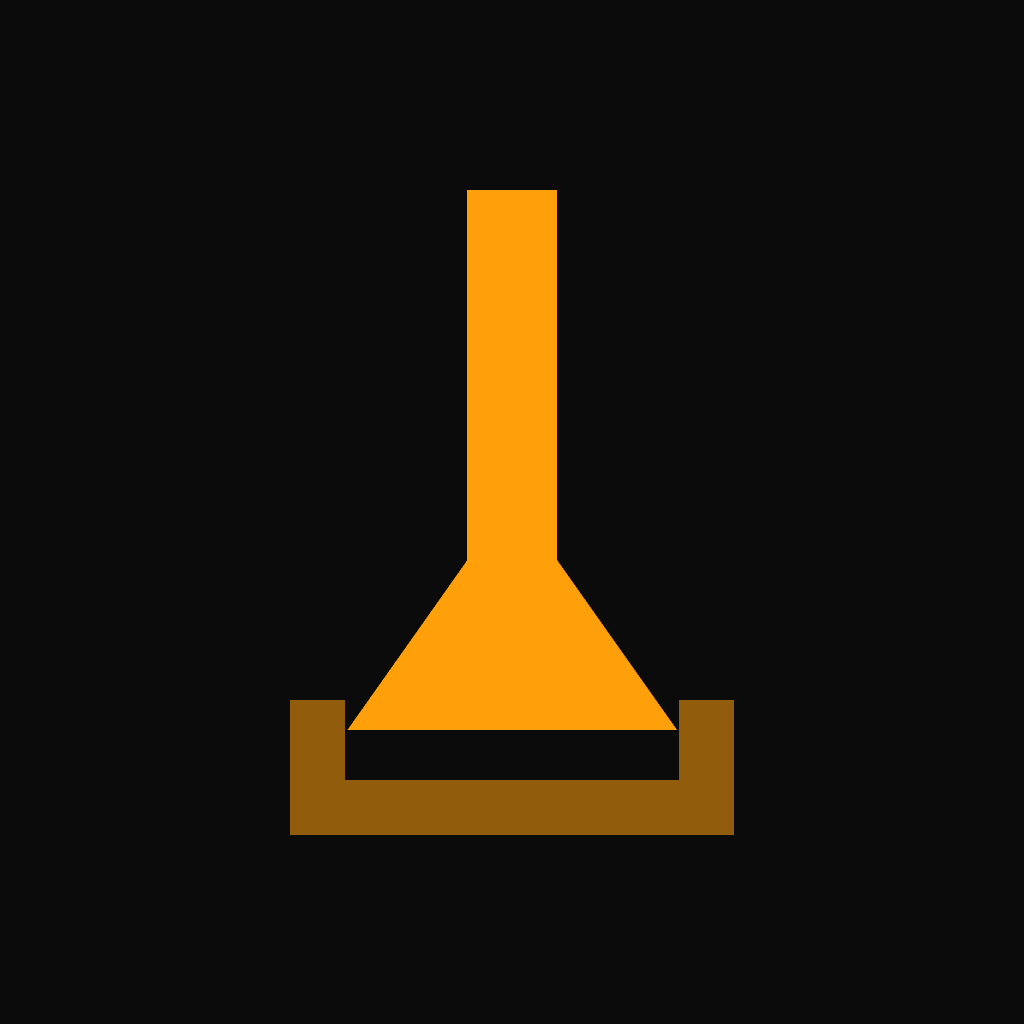
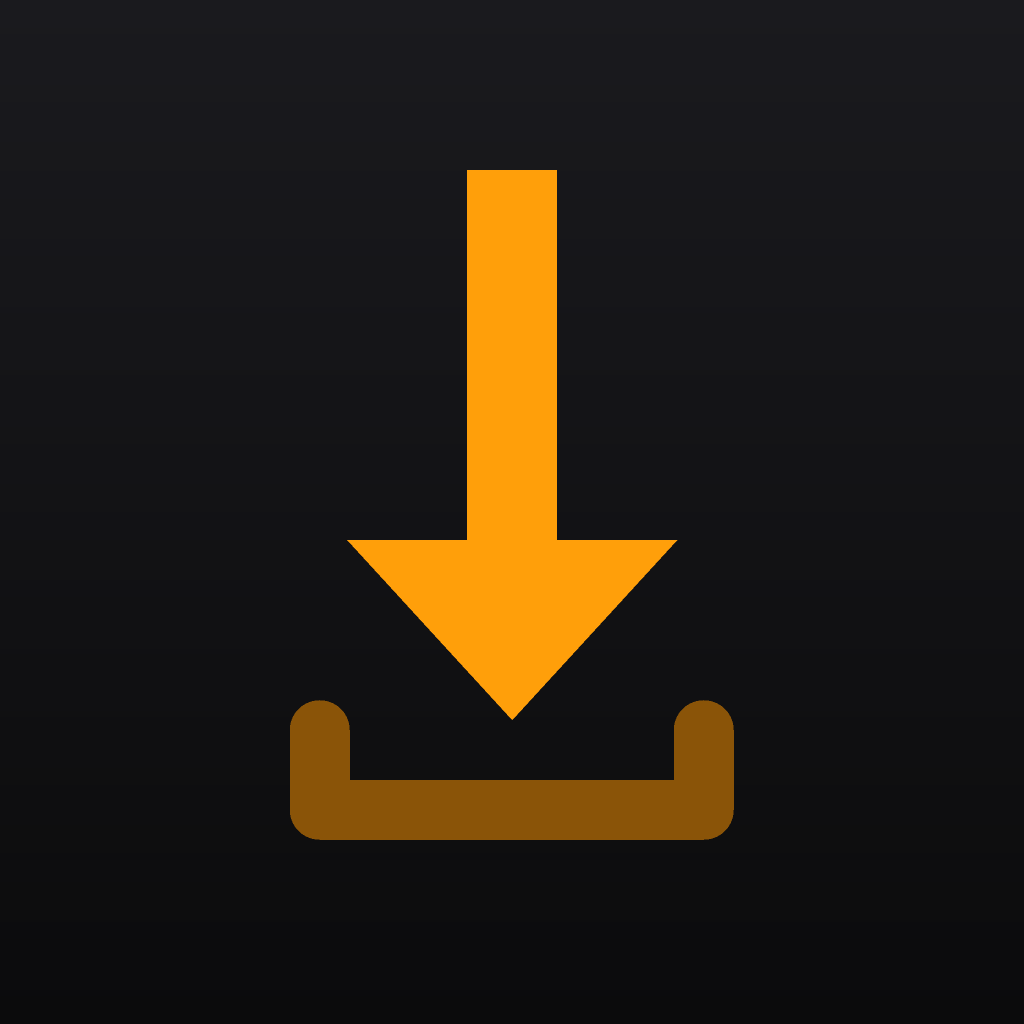
feat: nouvelle icône variante B (fond dégradé charbon, flèche orange, bac U adouci) - générée par scripts/make_icon.py

Changed region(s): [[0.2812, 0.5, 0.7188, 0.75], [0.3125, 0.8125, 0.6875, 0.8438], [0.4375, 0.1562, 0.5625, 0.1875]]

diff --git a/scripts/make_icon.py b/scripts/make_icon.py
@@ -1,8 +1,9 @@
-"""Génère l'icône de l'app (direction « Console d'archive »).
+"""Génère l'icône de l'app — variante B « Console d'archive » (validée).
 
-Fond sombre DS.background dark (#0B0B0C), glyphe « télécharger » en accent
-#FF9F0A, bac en accent atténué — rendu 2048 puis rééchantillonné 1024
-(filtre boîte) pour des bords nets. Aucune dépendance externe.
+Fond en dégradé vertical charbon #1A1A1E → #0B0B0C, flèche de téléchargement
+orange #FF9F0A vers le bas, bac en U aux coins arrondis en brun orangé #8A5408.
+Rendu 2048 puis rééchantillonné 1024 (filtre boîte) pour des bords nets.
+Aucune dépendance externe.
 """
 import json
 import pathlib
@@ -13,39 +14,49 @@ size = 1024
 ss = 2  # supersampling
 big = size * ss
 
-BG = (0x0B, 0x0B, 0x0C)       # DS.background (dark)
-ACCENT = (0xFF, 0x9F, 0x0A)   # DS.accent (dark)
-TRAY_ALPHA = 0.55             # bac = accent atténué sur le fond
+BG_TOP = (0x1A, 0x1A, 0x1E)
+BG_BOT = (0x0B, 0x0B, 0x0C)
+ACCENT = (0xFF, 0x9F, 0x0A)   # flèche
+TRAY = (0x8A, 0x54, 0x08)     # bac atténué
 
 
-def tray_color():
-    return tuple(round(bg + (ac - bg) * TRAY_ALPHA) for bg, ac in zip(BG, ACCENT))
+def lerp(c1, c2, t):
+    return tuple(round(a + (b - a) * t) for a, b in zip(c1, c2))
 
 
-def in_shaft(x, y):
-    return 467 * ss <= x < 557 * ss and 190 * ss <= y < 560 * ss
+def in_arrow(x, y):
+    # Tige
+    if 467 * ss <= x < 557 * ss and 170 * ss <= y < 560 * ss:
+        return True
+    # Tête triangulaire vers le bas : large en haut (y=540), pointe en bas (y=720)
+    if 540 * ss <= y < 720 * ss:
+        half = 165 * ss * (1 - (y - 540 * ss) / (180 * ss))
+        return abs(x - 512 * ss) <= half
+    return False
 
 
-def in_head(x, y):
-    # Triangle de la flèche vers le bas : large en haut (y=560), pointe en bas (y=730).
-    if not (560 * ss <= y < 730 * ss):
+def rounded_rect(x, y, x0, y0, x1, y1, r):
+    if not (x0 <= x < x1 and y0 <= y < y1):
         return False
-    half = 165 * ss * (1 - (y - 560 * ss) / (170 * ss))
-    return abs(x - 512 * ss) <= half
+    cx = min(max(x, x0 + r), x1 - r - 1)
+    cy = min(max(y, y0 + r), y1 - r - 1)
+    return (x - cx) ** 2 + (y - cy) ** 2 <= r * r
 
 
 def in_tray(x, y):
-    bar = 290 * ss <= x < 734 * ss and 780 * ss <= y < 835 * ss
-    wall = (290 * ss <= x < 345 * ss or 679 * ss <= x < 734 * ss) and 700 * ss <= y < 835 * ss
-    return bar or wall
+    # Bac en U : deux parois + fond, coins arrondis r=30 (échelle 1024)
+    wall_l = rounded_rect(x, y, 290 * ss, 700 * ss, 350 * ss, 840 * ss, 30 * ss)
+    wall_r = rounded_rect(x, y, 674 * ss, 700 * ss, 734 * ss, 840 * ss, 30 * ss)
+    bottom = rounded_rect(x, y, 290 * ss, 780 * ss, 734 * ss, 840 * ss, 30 * ss)
+    return wall_l or wall_r or bottom
 
 
 def pixel(x, y):
-    if in_shaft(x, y) or in_head(x, y):
+    if in_arrow(x, y):
         return ACCENT
     if in_tray(x, y):
-        return tray_color()
-    return BG
+        return TRAY
+    return lerp(BG_TOP, BG_BOT, y / big)
 
 
 rows = bytearray()
@@ -55,7 +66,7 @@ for y in range(big):
         rows.extend(pixel(x, y))
 
 # Rééchantillonnage boîte ss x ss -> 1024
-stride = 1 + 3 * big  # octet filtre + big pixels RGB par ligne
+stride = 1 + 3 * big
 small = bytearray()
 for y in range(size):
     small.append(0)
